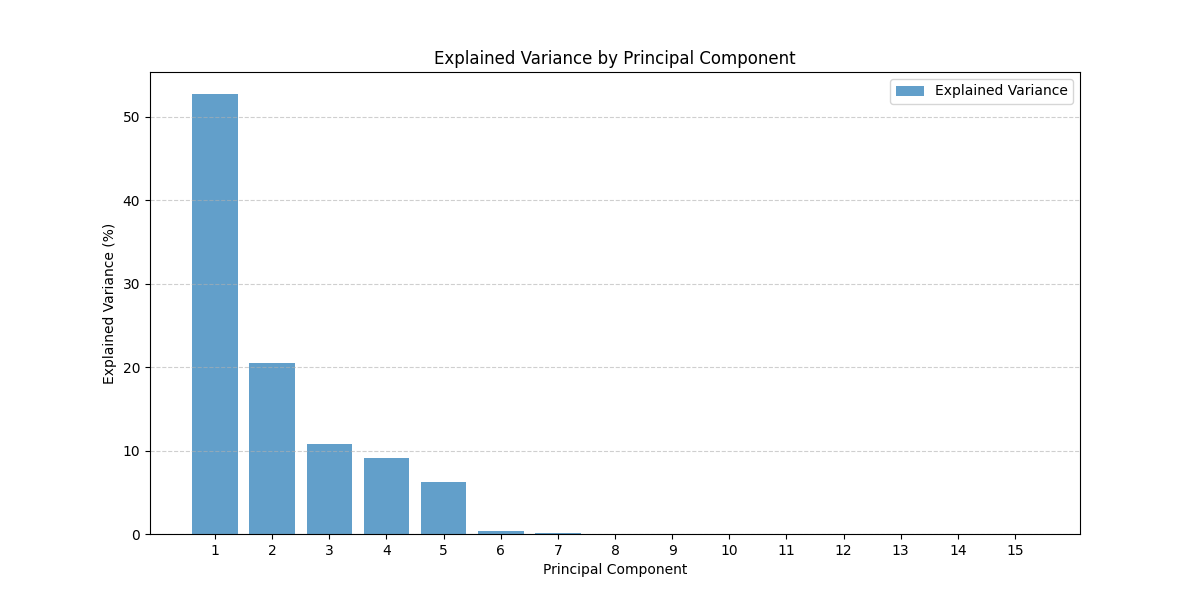
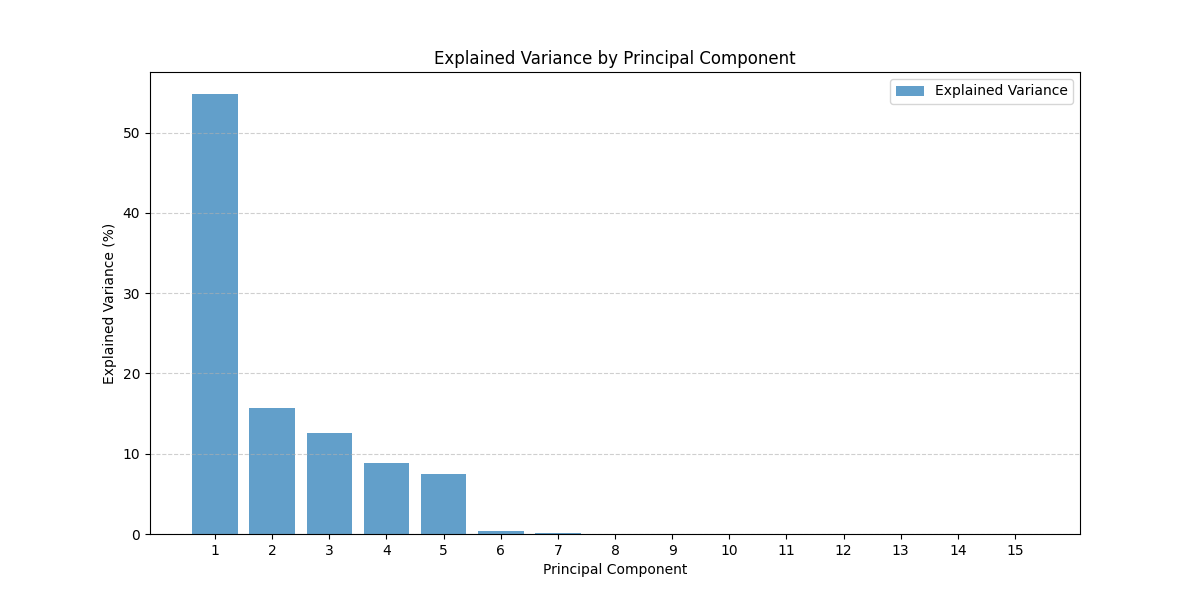
update 2021-2024

diff --git a/report/6.py b/report/6.py
@@ -5,7 +5,7 @@ import matplotlib.pyplot as plt
 
 # 1. Data Acquisition
 symbols = ["AAPL", "MSFT", "GOOG", "AMZN", "TSLA"]  # Sample S&P 500 tickers
-sp500_data = yf.download(symbols, start="2020-01-01", end="2023-01-01")
+sp500_data = yf.download(symbols, start="2021-01-01", end="2024-01-01")
 
 # Extract relevant features
 closing_price = sp500_data["Close"]
